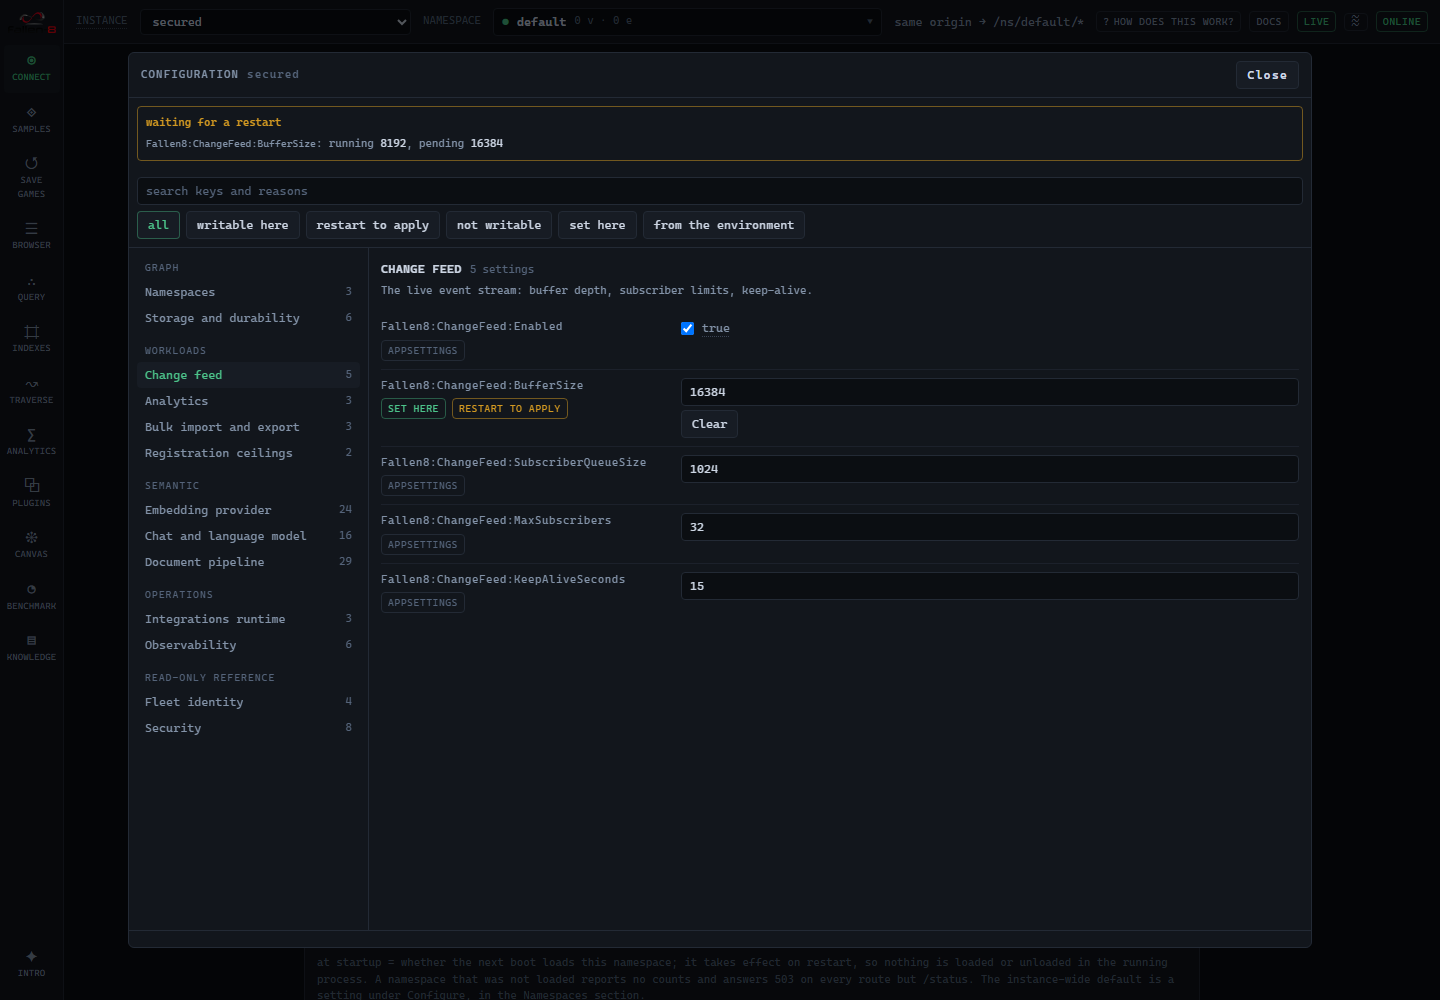
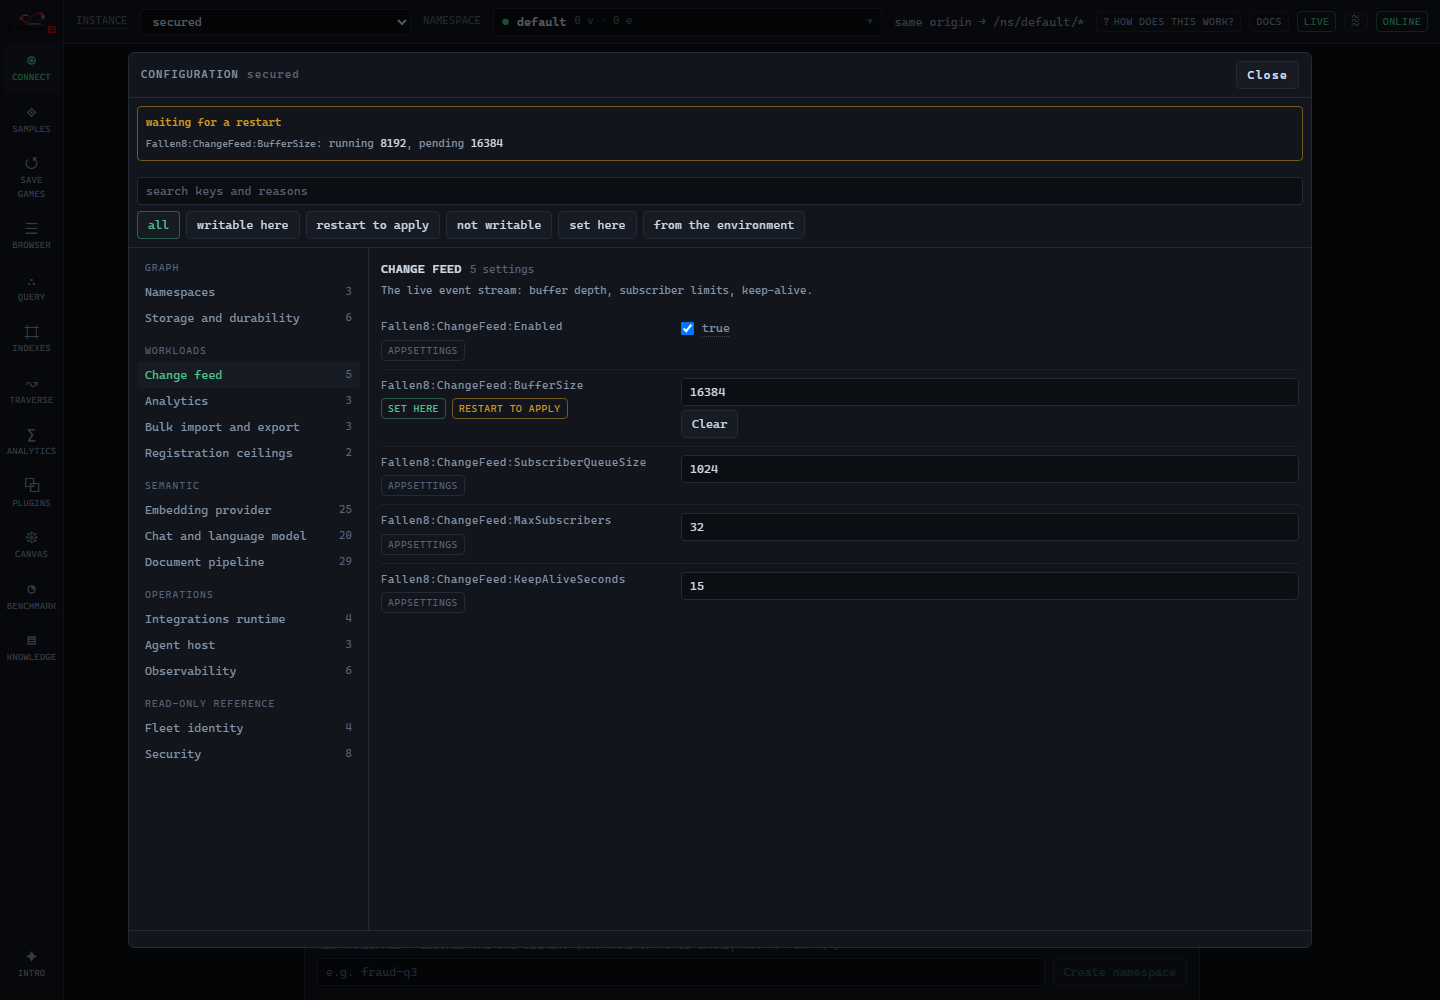
docs: recapture the three frames the agent host changed, and unwrap the new label
The per-purpose model rows and the new Agent host settings section are both visible on published
screenshots, so the three affected frames are recaptured: screen-connect.png (the Chat card),
screen-connect-observability.png and screen-configuration.png (the section nav, which now lists
Agent host with its three instance keys).

The first capture showed why inspecting a frame matters more than reading the exit code: all three
specs passed while the Chat card printed "MODEL" and "(ASSIST)" on two lines. The label column is
fixed width so the two provider cards line up, and it was sized at 5rem, which the longest label
before this change fitted. It is 7rem now, on both the label rows and the status row, because
sizing only one of them would leave the status dot out of line with everything above it.

The capture app for these three frames needs an OTLP endpoint and both semantic providers named
explicitly; the specs say so in their own assertion messages, and the two that failed the first
time were failing on the capture environment rather than on anything this branch changed.

Changed region(s): [[0.2188, 0.961, 0.8125, 1.0], [0.0938, 0.62, 0.1875, 0.744]]

diff --git a/fallen-8-web-ui/src/components/ConfigurationPanel.tsx b/fallen-8-web-ui/src/components/ConfigurationPanel.tsx
@@ -68,10 +68,15 @@ import { ErrorBox } from "./ErrorBox";
 function isNamespacePolicy(key: string, lockNamespace?: boolean): boolean {
   return lockNamespace === true && key.startsWith("Fallen8:Namespaces:");
 }
+/**
+ * The label column is sized for the LONGEST label any card prints, not for the average one: it is
+ * fixed width so the rows of both cards line up, so a label that does not fit wraps onto a second
+ * line while its value stays on the first. `model (assist)` did exactly that at the previous 5rem.
+ */
 function Row({ label, value }: { label: string; value: string }) {
   return (
     <div className="flex items-baseline gap-2 text-[12px]">
-      <span className="text-fg-faint w-20 shrink-0 tracking-wide uppercase">{label}</span>
+      <span className="text-fg-faint w-28 shrink-0 tracking-wide uppercase">{label}</span>
       <span className="text-fg-dim min-w-0 truncate" title={value}>
         {value}
       </span>
@@ -110,7 +115,8 @@ function StatusRow({ status }: { status: ModelStatus }) {
     status.state === "loaded" ? "bg-accent" : status.state === "idle" ? "bg-fg-faint" : "bg-warn";
   return (
     <div className="flex items-center gap-2 text-[12px]" data-testid="config-model-status">
-      <span className="text-fg-faint w-20 shrink-0 tracking-wide uppercase">status</span>
+      {/* Same width as Row's label column, or this row's dot and text sit out of line with them. */}
+      <span className="text-fg-faint w-28 shrink-0 tracking-wide uppercase">status</span>
       <span className={`inline-block h-1.5 w-1.5 shrink-0 rounded-full ${dot}`} aria-hidden />
       <span className="text-fg-dim min-w-0 truncate">{status.text}</span>
     </div>
